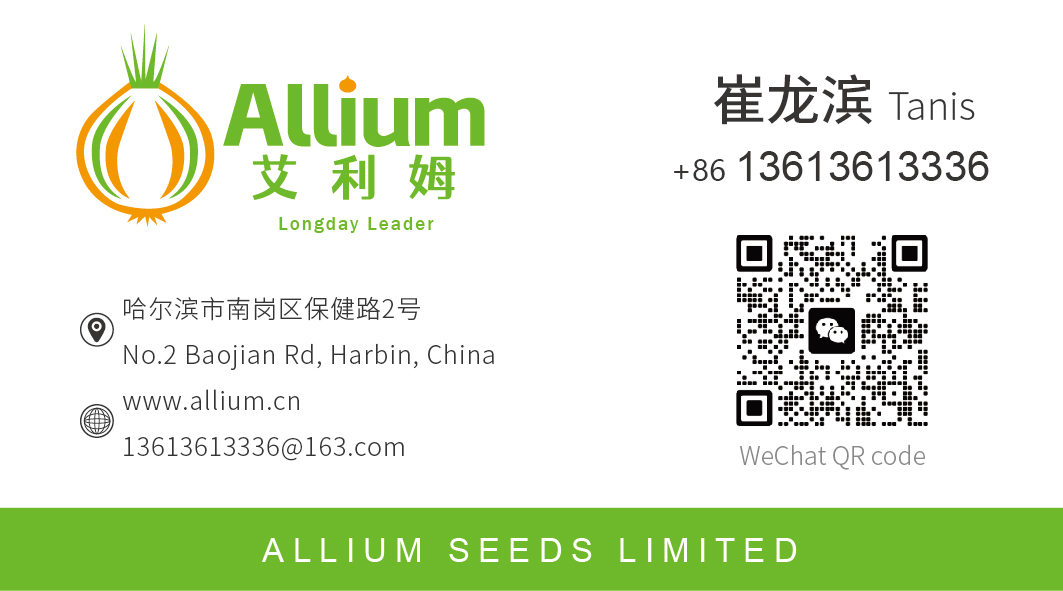
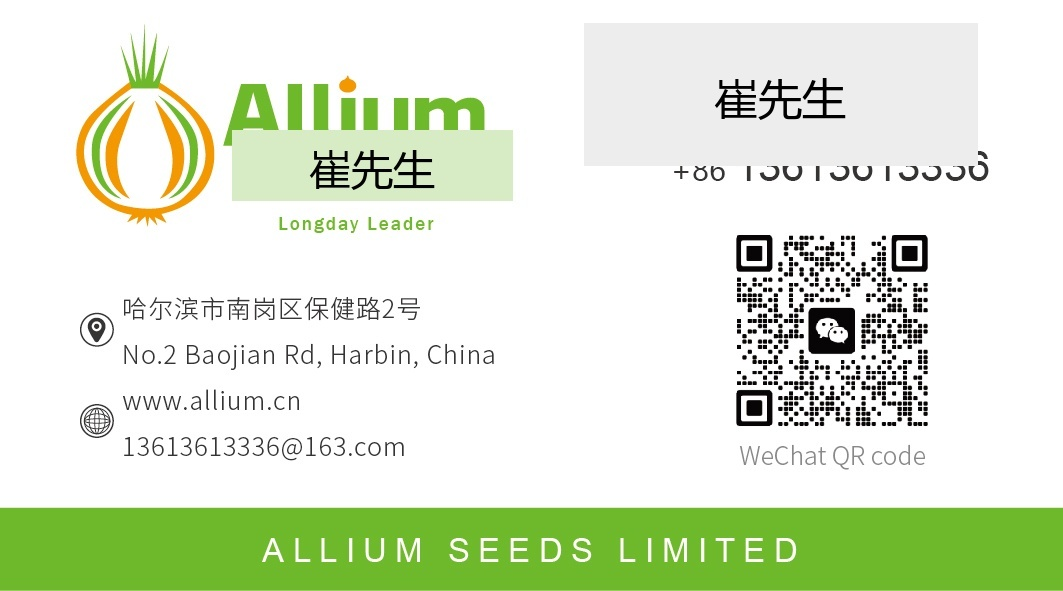
Update: replace 崔龙滨 with 崔先生 in card.jpg and alt text

diff --git a/index.html b/index.html
@@ -86,7 +86,7 @@
     </div>
 
     <div class="card-wrapper">
-        <img src="card.jpg" alt="艾利姆 Allium 商务名片 — 崔龙滨">
+        <img src="card.jpg" alt="艾利姆 Allium 商务名片">
     </div>
 
     <div style="text-align:center;margin:24px 0 8px;">
